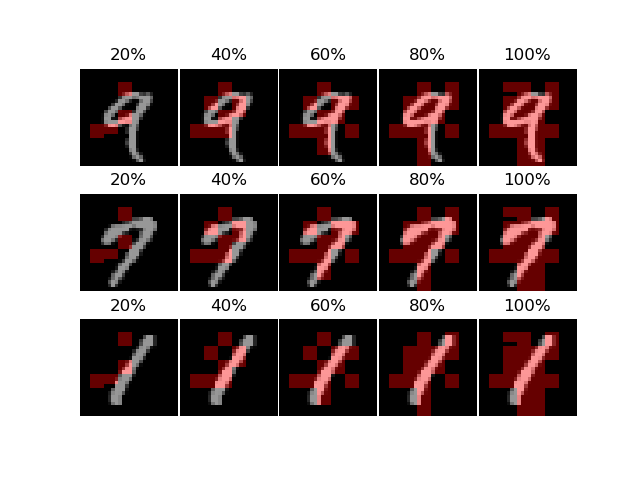
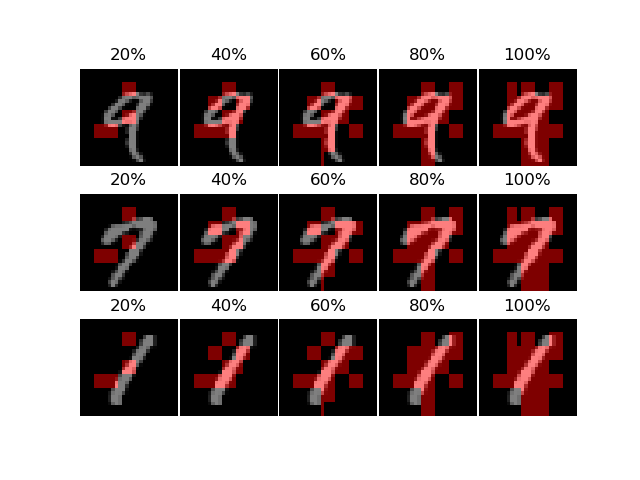
Updates and bug fixes

diff --git a/compare.py b/compare.py
@@ -72,8 +72,10 @@ class CNNModel:
 
 def define_parser():
     parser = argparse.ArgumentParser(description="Run NMP")
-    parser.add_argument("--data", default="MNIST", help="Input dataset available as the paper shows")
-    parser.add_argument("--algo", default="BART", help="The algorithm used for feature selection")
+    parser.add_argument("--reduced_inference", default="True", help="If comparision subset is reduced according to paper")
+    parser.add_argument("--J", default="1000", help="Comparision subset")
+    parser.add_argument("--data", default="CIFAR-10", help="Input dataset available as the paper shows")
+    parser.add_argument("--algo", default="RF", help="The algorithm used for feature selection")
     parser.add_argument("--tree_size", default="20", help="The number of trees used in BART or RF")
     parser.add_argument("--MC_Num", default="10", help="The number of MC simulations done")
     parser.add_argument("--deeplift_sample_size", default="10", help="The number of samples chosen from deeplift for explaining in each MC simulation")
@@ -98,16 +100,43 @@ def prepare_data(args):
         T_test =  loadmat("./mat_files/MNIST.mat")["test_y"].astype(np.float32)
         with open('./parameters/MNIST_sorted_ind.pkl', 'rb') as f:
              indices = pickle.load(f) 
-        
-                    
+
+        if args.reduced_inference == "True":
+            J_subset = np.random.choice(X_train.shape[1], int(args.J))
+            X_train = X_train[:,J_subset]
+            T_train = T_train[:,J_subset]
+
         if args.algo=="RF":
-            return indices['sorted_ind'][:300], X_train.T[:10000], X_test.T[:3000], T_train.T[:10000], T_test.T[:3000]
+            return indices['sorted_ind'][:300], X_train.T, X_test.T, T_train.T, T_test.T
         elif args.algo=="BART" or args.algo=="GAM":
             T_train = np.asarray([np.argmax(t, axis=None, out=None) for t in T_train.T])/10.0
             T_test = np.asarray([np.argmax(t, axis=None, out=None) for t in T_test.T])/10.0
             return indices['sorted_ind'][:300], X_train.T, X_test.T, T_train, T_test
         else:
             return indices['sorted_ind'][:300], X_train.T, X_test.T, T_train.T, T_test.T
+
+    if args.data=="CIFAR-10":
+        X_train =  loadmat("./mat_files/CIFAR-10.mat")["train_x"].astype(np.float32)
+        X_test =  loadmat("./mat_files/CIFAR-10.mat")["test_x"].astype(np.float32)
+        T_train =  loadmat("./mat_files/CIFAR-10.mat")["train_y"].astype(np.float32)
+        T_test =  loadmat("./mat_files/CIFAR-10.mat")["test_y"].astype(np.float32)
+        with open('./parameters/MNIST_sorted_ind.pkl', 'rb') as f:
+             indices = pickle.load(f) 
+
+        if args.reduced_inference == "True":
+            J_subset = np.random.choice(X_train.shape[1], int(args.J))
+            X_train = X_train[:,J_subset]
+            T_train = T_train[:,J_subset]
+
+        if args.algo=="RF":
+            return indices['sorted_ind'][:300], X_train.T, X_test.T, T_train.T, T_test.T
+        elif args.algo=="BART" or args.algo=="GAM":
+            T_train = np.asarray([np.argmax(t, axis=None, out=None) for t in T_train.T])/10.0
+            T_test = np.asarray([np.argmax(t, axis=None, out=None) for t in T_test.T])/10.0
+            return indices['sorted_ind'][:300], X_train.T, X_test.T, T_train, T_test
+        else:
+            return indices['sorted_ind'][:300], X_train.T, X_test.T, T_train.T, T_test.T
+
     
     if args.data=="BOSTON":
         from sklearn.datasets import load_boston
@@ -282,7 +311,7 @@ def create_model(args, file_path, model, X_train, T_train):
 def run_feature_selector_algo(args, S, X_train, X_test, T_train, T_test, i, model_fpsr, model_fnsr, model_msfe, model_mspe, model_card, model_nme_train, model_nme_test):
     log_params = False
     file_path_prefix = "./parameters/"
-              
+
     start_time = time.time()
     if args.algo=="RF":      
         file_path = file_path_prefix + args.data + "/" + args.algo + "-" + str(i) + ".joblib"
@@ -292,11 +321,12 @@ def run_feature_selector_algo(args, S, X_train, X_test, T_train, T_test, i, mode
         importance_vals = model.feature_importances_
         
         # Choose features which has 1% importance according to paper: https://www.ncbi.nlm.nih.gov/pmc/articles/PMC6660200/ 
-        S_hat = np.argwhere(importance_vals > 0.005).flatten()
+        S_hat = np.argwhere(importance_vals > 0.00).flatten()
         
-        if args.data=="MNIST": # Take 40% features of MNIST only
+        if args.data=="MNIST" or args.data=="CIFAR-10": # Take 40% features of MNIST only
             file_path = file_path_prefix + args.data + "/" + args.algo + "-" + "40_percent_features-" + str(i) + ".joblib"
-            S_hat = np.argsort(importance_vals)[::-1][:315].flatten() #40% features
+            n_sub_feat_size = int(X_train.shape[1]*0.4)
+            S_hat = np.argsort(importance_vals)[::-1][:n_sub_feat_size].flatten() #40% features
             model = RandomForestRegressor(n_estimators=100) 
             model = create_model(args, file_path, model, X_train[:,S_hat], T_train)
             X_train = X_train[:,S_hat]
@@ -357,7 +387,7 @@ def run_feature_selector_algo(args, S, X_train, X_test, T_train, T_test, i, mode
         total_val = np.sum(np.sum(np.abs(shap_values), axis=0), axis=0).flatten()
         S_hat = total_val.argsort()[::-1]
 
-        if args.data=="MNIST": # Take 40% features of MNIST only
+        if args.data=="MNIST" or args.data=="CIFAR-10": # Take 40% features of MNIST only
             X_train = x_train[:,S_hat]
             X_test = x_test[:,S_hat]
             X_train = X_train.reshape(X_train.shape[0], 28, 28)
@@ -366,7 +396,8 @@ def run_feature_selector_algo(args, S, X_train, X_test, T_train, T_test, i, mode
             X_train = np.expand_dims(X_train, -1)
             X_test = np.expand_dims(X_test, -1)
             file_path = file_path_prefix + args.data + "/" + args.algo + "-" + "40_percent_features-" + str(i) + ".h5"
-            S_hat = total_val.argsort()[::-1][:315] #40% features
+            n_sub_feat_size = int(X_train.shape[1]*0.4)
+            S_hat = total_val.argsort()[::-1][:n_sub_feat_size] #40% features
             model_new = CNNModel(num_classes, input_shape).create_cnn_model()
             model_new.compile(loss="categorical_crossentropy", optimizer="adam", metrics=["accuracy"])
             model = create_model(args, file_path, model_new, X_train, T_train)
@@ -399,9 +430,10 @@ def run_feature_selector_algo(args, S, X_train, X_test, T_train, T_test, i, mode
         
         S_hat = sorted(model.importance, key=model.importance.get)[::-1]
         
-        if args.data=="MNIST": # Take 40% features of MNIST only
+        if args.data=="MNIST" or args.data=="CIFAR-10": # Take 40% features of MNIST only
             file_path = file_path_prefix + args.data + "/" + args.algo + "-" + "40_percent_features-" + str(i) + ".joblib"
-            S_hat = sorted(model.importance, key=model.importance.get)[::-1][:315] #40% features
+            n_sub_feat_size = int(X_train.shape[1]*0.4)
+            S_hat = sorted(model.importance, key=model.importance.get)[::-1][:n_sub_feat_size] #40% features
             model = XBART(num_trees = int(args.tree_size), num_sweeps = 20, burnin = 15, verbose = True, parallel = True)
             X_train = pd.DataFrame(x_train[:,S_hat])
             X_test = pd.DataFrame(x_test[:,S_hat])
@@ -431,26 +463,27 @@ def run_feature_selector_algo(args, S, X_train, X_test, T_train, T_test, i, mode
 
     elif args.algo=="LASSO":
         file_path = file_path_prefix + args.data + "/" + args.algo + "-" + str(i) + ".joblib"
-
+        
         #T_train = np.argmax(T_train, axis=1)
         #T_test = np.argmax(T_test, axis=1)
 
-        model = linear_model.Lasso(alpha=0.01, max_iter=50000)
+        model = linear_model.Lasso(alpha=0.01, max_iter=5000)
         model = create_model(args, file_path, model, X_train, T_train)
 
         S_hat = np.argsort(model.coef_)
         
-        if args.data=="MNIST": # Take 40% features of MNIST only
+        if args.data=="MNIST" or args.data=="CIFAR-10": # Take 40% features of MNIST only
             file_path = file_path_prefix + args.data + "/" + args.algo + "-" + "40_percent_features-" + str(i) + ".joblib"
-            S_hat = np.argsort(model.coef_)[::-1][:315].flatten() #40% features
-            model = linear_model.Lasso(alpha=0.01, tol=1e-6, max_iter=5000)
+            n_sub_feat_size = int(X_train.shape[1]*0.4)
+            S_hat = np.argsort(model.coef_)[::-1][:n_sub_feat_size].flatten() #40% features
+            model = linear_model.Lasso(alpha=0.01, max_iter=5000)
             model = create_model(args, file_path, model, X_train[:,S_hat], T_train)
             X_train = X_train[:,S_hat]
             X_test = X_test[:,S_hat]
 
         # Ugly hack otherwise vector norm not calculated
-        T_train = T_train.reshape(X_train.shape[0], 1)
-        T_test = T_test.reshape(X_test.shape[0], 1)
+        #T_train = T_train.reshape(X_train.shape[0], 1)
+        #T_test = T_test.reshape(X_test.shape[0], 1)
 
         log_params = True
     

diff --git a/test.py b/test.py
@@ -11,6 +11,14 @@ import random
 import pandas as pd
 from MyFunctions import *
 
+def choose_patched_features(size, rows, cols, patch_rows = 4, patch_cols = 4):
+    S_hat = []
+    for i in range(size):
+        for j in range(patch_rows):
+            for k in range(patch_cols):
+                S_hat.append((patch_rows*rows[i] + j)*28 + patch_cols*cols[i] + k%4) 
+    return S_hat
+
 # Features from deeplift
 S_hat = np.array([318, 403, 290, 375, 210, 513, 317, 346, 402, 345, 570, 514, 212,
        457, 404, 263, 374, 376, 401, 319, 373, 291, 400, 208, 430, 433,
@@ -91,13 +99,7 @@ with open('./parameters/MNIST_sorted.pkl', 'rb') as f:
 rows = [1, 3, 3, 2, 4, 2, 3, 4, 3, 5, 5, 3, 3, 5, 2, 4, 4, 4, 2, 6, 2, 4, 0, 1, 2, 3, 5, 1, 0, 0, 5, 0, 6, 2, 0, 6, 1, 5, 4, 5, 1, 0, 1, 6, 1, 6, 0, 6, 6]
 cols = [4, 3, 1, 4, 2, 2, 4, 3, 5, 2, 4, 6, 2, 1, 3, 5, 4, 6, 1, 2, 6, 1, 1, 3, 5, 0, 3, 1, 6, 4, 6, 5, 4, 0, 2, 0, 5, 5, 0, 0, 0, 0, 2, 6, 6, 5, 3, 1, 3]
 
-S_hat = []
-patch_rows = 4
-patch_cols = 4
-for i in range(7*7):
-    for j in range(patch_rows):
-        for k in range(patch_cols):
-            S_hat.append((patch_rows*rows[i] + k-1)*28 + patch_cols*cols[i] + j%4) 
+S_hat = choose_patched_features(7*7, rows, cols, patch_rows = 4, patch_cols = 4)
 
 show_image(x, S_hat[0:300], "test_nmp_300_4x4")
 
@@ -122,13 +124,7 @@ cols = [4,4,4,4,4,4,8,9,10,11,12,5,6,7,8,7,9,6,2,8,6,11,4,7
 ,9,12,9,2,1,10,2,7,2,4,11,7,2,9,6,7,0,0,7,10,12,3,13,6
 ,4,5,5,10]
 
-S_hat = []
-patch_rows = 2
-patch_cols = 2
-for i in range(14*14):
-    for j in range(patch_rows):
-        for k in range(patch_cols):
-            S_hat.append((patch_rows*rows[i] + k-1)*28 + patch_cols*cols[i] + j%4) 
+S_hat = choose_patched_features(14*14, rows, cols, patch_rows = 2, patch_cols = 2)
 
 show_image(x, S_hat[0:300], "test_nmp_300_2x2")
 
@@ -233,3 +229,10 @@ S_hat_rf_mnist = np.array([102, 123, 130, 131, 132, 133, 148, 149, 150, 152, 153
        691, 707])
 
 show_image(x, S_hat_rf_mnist[0:300], "test_rf_300")
+
+rows = [5, 6, 6, 4, 6, 2, 6, 2, 4, 5, 2, 0, 0, 2, 0, 4, 4, 3, 6, 5]
+cols = [6, 2, 4, 5, 6, 5, 0, 2, 2, 2, 3, 3, 5, 6, 1, 4, 6, 0, 3, 5]
+#S_hat = choose_patched_features(49, patch_rows = 4, patch_cols = 4)
+S_hat = choose_patched_features(20, rows, cols, patch_rows = 4, patch_cols = 4)
+
+show_image(x, S_hat[0:300], "test_nmp_cnn_300_4x4")

diff --git a/MyFunctions.py b/MyFunctions.py
@@ -128,7 +128,7 @@ def show_image(samples, sorted_ind, save_name):
             # ax = fig.add_subplot(3, len(percentage), i)
             params = {'interpolation': 'nearest'}
             imgplot = plt.imshow(image)
-            plt.imshow(f_image, 'Blues', interpolation='nearest', alpha=0.4)
+            plt.imshow(f_image, 'viridis', interpolation='nearest', alpha=0.5)
             ax.set_title(str(int(p * 100))+"%")
             plt.axis('off')
             i = i + 1
